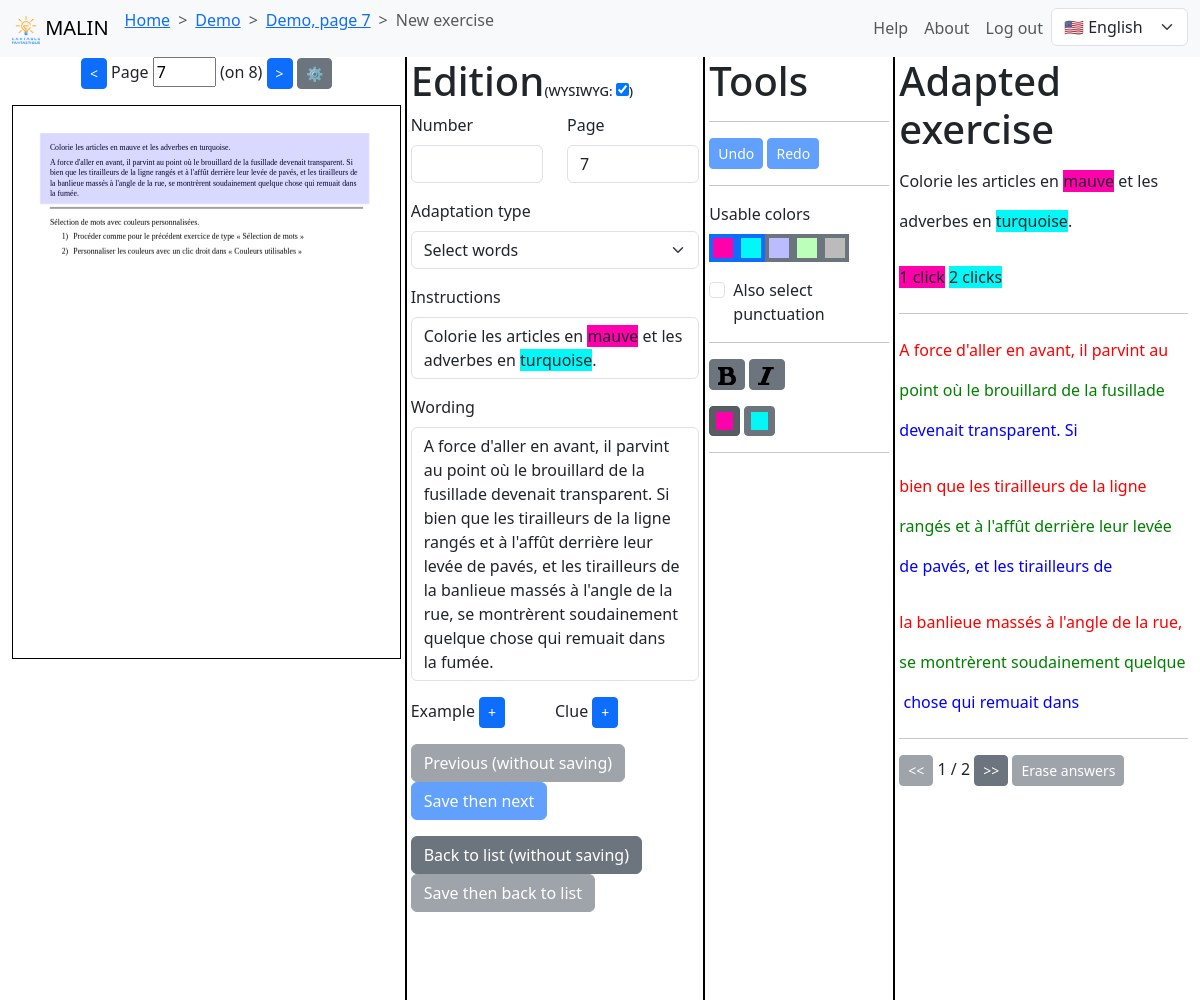
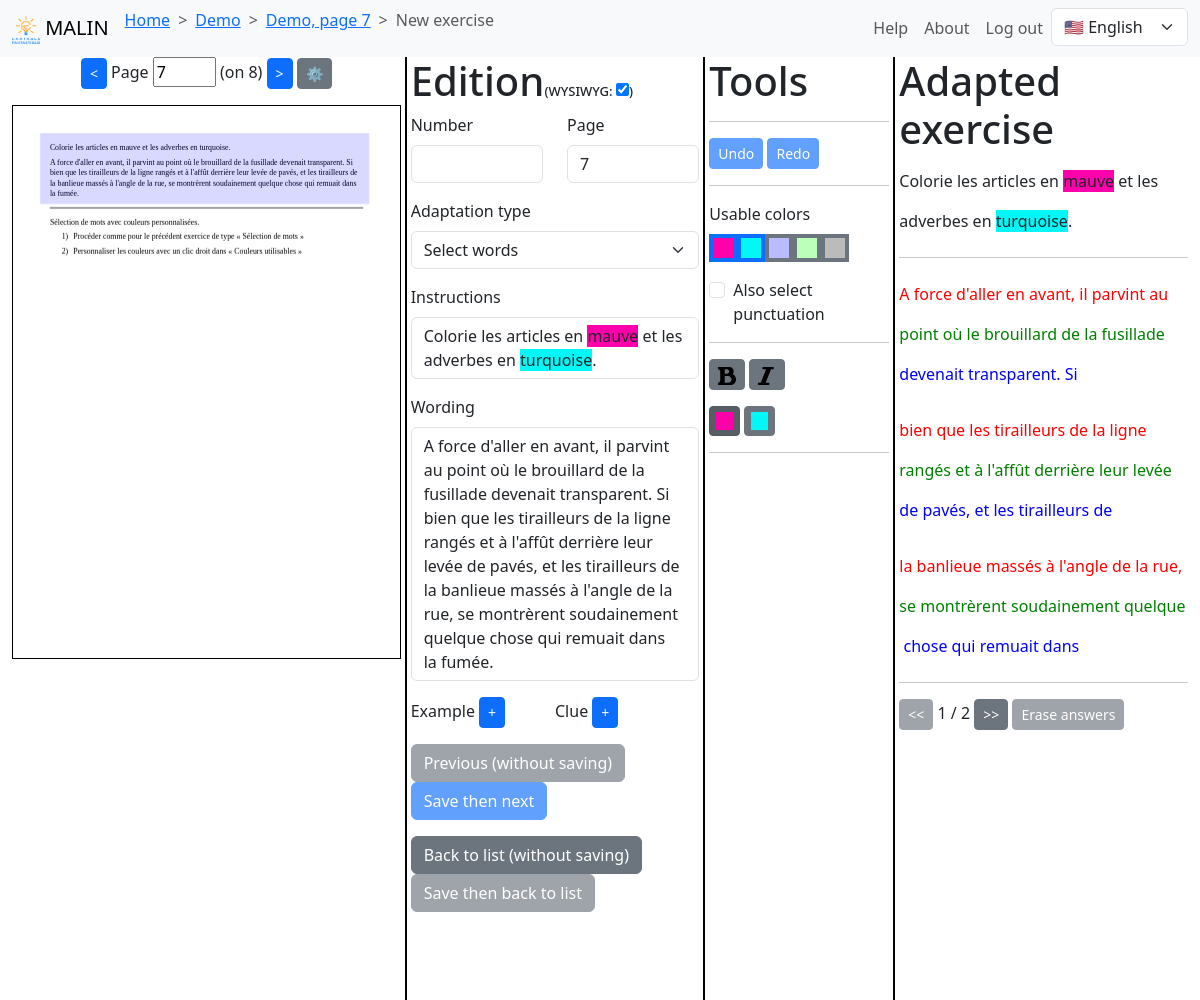
Remove "N clicks to colors" indicators in "select words" exercises

Changed region(s): [[0.74, 0.465, 0.9867, 0.806], [0.74, 0.248, 0.9867, 0.434]]

diff --git a/frontend/src/openapi.ts b/frontend/src/openapi.ts
@@ -334,7 +334,7 @@ export interface components {
     /** Sentence */
     Sentence: {
       /** Tokens */
-      tokens: (components["schemas"]["_PlainText"] | components["schemas"]["_BoxedText"] | components["schemas"]["_BoldText"] | components["schemas"]["_ItalicText"] | components["schemas"]["_SelectableText"] | components["schemas"]["_SelectedText"] | components["schemas"]["_SelectedClicks"] | components["schemas"]["_FreeTextInput"] | components["schemas"]["_MultipleChoicesInput"] | components["schemas"]["_Whitespace"])[];
+      tokens: (components["schemas"]["_PlainText"] | components["schemas"]["_BoxedText"] | components["schemas"]["_BoldText"] | components["schemas"]["_ItalicText"] | components["schemas"]["_SelectableText"] | components["schemas"]["_SelectedText"] | components["schemas"]["_FreeTextInput"] | components["schemas"]["_MultipleChoicesInput"] | components["schemas"]["_Whitespace"])[];
     };
     /** ValidationError */
     ValidationError: {
@@ -421,19 +421,6 @@ export interface components {
        * @enum {string}
        */
       type: "selectableText";
-    };
-    /** _SelectedClicks */
-    _SelectedClicks: {
-      /** Clicks */
-      clicks: number;
-      /** Color */
-      color: string;
-      /**
-       * Type
-       * @constant
-       * @enum {string}
-       */
-      type: "selectedClicks";
     };
     /** _SelectedText */
     _SelectedText: {

diff --git a/frontend/e2e-tests/textbook-exercise-edition.cy.ts b/frontend/e2e-tests/textbook-exercise-edition.cy.ts
@@ -95,7 +95,6 @@ describe('Gabby', () => {
     cy.get('span.maybe-usable-colors-container span.usable-colors-button[data-cy-colors="4"]').should('have.css', 'background-color', 'rgb(45, 75, 45)')
     cy.get('button[data-cy="format-color-4"] > span').should('have.css', 'background-color', 'rgb(45, 75, 45)')
     cy.get('span:contains("verbes")').last().should('have.css', 'background-color', 'rgb(45, 75, 45)')
-    cy.get('span:contains("4 clicks")').last().should('have.css', 'background-color', 'rgb(45, 75, 45)')
     cy.get('button:contains("OK")').click()
     cy.get('span:contains("Afrique")').last().click()
     cy.get('span:contains("Afrique")').last().click()
@@ -113,7 +112,6 @@ describe('Gabby', () => {
     cy.get('span.maybe-usable-colors-container span.usable-colors-button[data-cy-colors="4"]').should('have.css', 'background-color', 'rgb(45, 75, 45)')
     cy.get('button[data-cy="format-color-4"] > span').should('have.css', 'background-color', 'rgb(45, 75, 45)')
     cy.get('span:contains("verbes")').last().should('have.css', 'background-color', 'rgb(45, 75, 45)')
-    cy.get('span:contains("4 clicks")').last().should('have.css', 'background-color', 'rgb(45, 75, 45)')
     cy.get('span:contains("Afrique")').last().click()
     cy.get('span:contains("Afrique")').last().click()
     cy.get('span:contains("Afrique")').last().click()

diff --git a/frontend/src/adapted/components/MonocolorSection.vue b/frontend/src/adapted/components/MonocolorSection.vue
@@ -44,9 +44,6 @@ watch(models, () => emit('layoutChanged'), { deep: true })
             <template v-else-if="token.type === 'selectedText'">
               <SelectedText :color="token.color">{{ token.text }}</SelectedText>
             </template>
-            <template v-else-if="token.type === 'selectedClicks'">
-              <SelectedText :color="token.color">{{ token.clicks }} {{ $t('nClicks', token.clicks) }}</SelectedText>
-            </template>
             <template v-else-if="token.type === 'multipleChoicesInput'">
               <MultipleChoicesInput :choices="token.choices" v-model="models[modelKey]" />
             </template>

diff --git a/backend/gabby/adaptations/select_things.py b/backend/gabby/adaptations/select_things.py
@@ -53,17 +53,7 @@ class SelectThingsAdaptation(Adaptation):
         )
 
     def make_adapted_instructions(self):
-        section = self.adapt_instructions(self.exercise.instructions)
-
-        if len(self.colors) > 1:
-            tokens = []
-            for i, color in enumerate(self.colors):
-                if i != 0:
-                    tokens.append(renderable.Whitespace())
-                tokens.append(renderable.SelectedClicks(clicks=i + 1, color=color))
-            section.paragraphs.append(renderable.Paragraph(sentences=[renderable.Sentence(tokens=tokens)]))
-
-        return section
+        return self.adapt_instructions(self.exercise.instructions)
 
     class WordingAdapter(parsing.WordingSectionAdapter):
         def __init__(self, words, punctuation, colors):
@@ -149,13 +139,6 @@ class SelectThingsAdaptationTestCase(AdaptationTestCase):
                             r.PlainText(text="instructions"),
                         ]),
                     ]),
-                    r.Paragraph(sentences=[
-                        r.Sentence(tokens=[
-                            r.SelectedClicks(clicks=1, color="red"),
-                            r.Whitespace(),
-                            r.SelectedClicks(clicks=2, color="blue"),
-                        ]),
-                    ]),
                 ]),
                 wording=r.Section(paragraphs=[
                     r.Paragraph(sentences=[
@@ -226,15 +209,6 @@ class SelectThingsAdaptationTestCase(AdaptationTestCase):
                             r.PlainText(text="|"),
                             r.PlainText(text="jkl"),
                             r.PlainText(text="}"),
-                        ]),
-                    ]),
-                    r.Paragraph(sentences=[
-                        r.Sentence(tokens=[
-                            r.SelectedClicks(clicks=1, color="red"),
-                            r.Whitespace(),
-                            r.SelectedClicks(clicks=2, color="green"),
-                            r.Whitespace(),
-                            r.SelectedClicks(clicks=3, color="blue"),
                         ]),
                     ]),
                 ]),
@@ -621,15 +595,6 @@ class SelectThingsAdaptationTestCase(AdaptationTestCase):
                     r.Paragraph(sentences=[
                         r.Sentence(tokens=[
                             r.PlainText(text="instructions"),
-                        ]),
-                    ]),
-                    r.Paragraph(sentences=[
-                        r.Sentence(tokens=[
-                            r.SelectedClicks(clicks=1, color="red"),
-                            r.Whitespace(),
-                            r.SelectedClicks(clicks=2, color="green"),
-                            r.Whitespace(),
-                            r.SelectedClicks(clicks=3, color="blue"),
                         ]),
                     ]),
                 ]),

diff --git a/backend/gabby/parsed_exercises.py b/backend/gabby/parsed_exercises.py
@@ -210,13 +210,6 @@ class ParsedExerciseApiTestCase(LoggedInApiTestCase):
                     {"type": "plainText", "text": "instructions"},
                     {"type": "plainText", "text": "."},
                 ]}]},
-                {"sentences": [{"tokens": [
-                    {"type": "selectedClicks", "clicks": 1, "color": "red"},
-                    {"type": "whitespace"},
-                    {"type": "selectedClicks", "clicks": 2, "color": "green"},
-                    {"type": "whitespace"},
-                    {"type": "selectedClicks", "clicks": 3, "color": "blue"},
-                ]}]},
             ]},
             "wording": {"paragraphs": [{"sentences": [{"tokens": [
                 {"type": "selectableText", "text": "This", "colors": ["red", "green", "blue"]},
@@ -266,13 +259,6 @@ class ParsedExerciseApiTestCase(LoggedInApiTestCase):
                     {"type": "whitespace"},
                     {"type": "plainText", "text": "instructions"},
                     {"type": "plainText", "text": "."},
-                ]}]},
-                {"sentences": [{"tokens": [
-                    {"type": "selectedClicks", "clicks": 1, "color": "red"},
-                    {"type": "whitespace"},
-                    {"type": "selectedClicks", "clicks": 2, "color": "green"},
-                    {"type": "whitespace"},
-                    {"type": "selectedClicks", "clicks": 3, "color": "blue"},
                 ]}]},
             ]},
             "wording": {"paragraphs": [{"sentences": [{"tokens": [

diff --git a/backend/gabby/parsing.py b/backend/gabby/parsing.py
@@ -587,16 +587,11 @@ class GenericInstructionsSectionAdapter(InstructionsSectionAdapter):
         text, color = args
         return renderable.SelectedText(text=text, color=color)
 
-    def selected_clicks_tag(self, args):
-        clicks, color = args
-        return renderable.SelectedClicks(clicks=clicks, color=color)
-
 
 adapt_generic_instructions_section = InstructionsSectionParser(
     {
         "boxed_text": r""" "|" STR """,
         "selected_text": r""" "|" STR "|" STR """,
-        "selected_clicks": r""" "|" INT "|" STR """,
     },
     GenericInstructionsSectionAdapter(),
 )
@@ -791,17 +786,6 @@ class AdaptGenericInstructionsSectionTestCase(TestCase):
                 renderable.PlainText(text="is"),
                 renderable.Whitespace(),
                 renderable.SelectedText(text="selected", color="red"),
-                renderable.PlainText(text="."),
-            ])])]),
-        )
-
-    def test_selected_clicks_tag(self):
-        self.do_test(
-            "A {selected-clicks|2|green}.",
-            renderable.Section(paragraphs=[renderable.Paragraph(sentences=[renderable.Sentence(tokens=[
-                renderable.PlainText(text="A"),
-                renderable.Whitespace(),
-                renderable.SelectedClicks(clicks=2, color="green"),
                 renderable.PlainText(text="."),
             ])])]),
         )

diff --git a/backend/gabby/renderable.py b/backend/gabby/renderable.py
@@ -78,18 +78,6 @@ def SelectedText(text: str, color: str):
     return _SelectedText(type="selectedText", text=text, color=color)
 
 
-class _SelectedClicks(PydanticBase):
-    type: Literal["selectedClicks"]
-    clicks: int
-    color: str
-
-    def to_generic(self):
-        return f"{{selected-clicks|{self.clicks}|{self.color}}}"
-
-def SelectedClicks(clicks: int, color: str):
-    return _SelectedClicks(type="selectedClicks", clicks=clicks, color=color)
-
-
 class _FreeTextInput(PydanticBase):
     type: Literal["freeTextInput"]
 
@@ -121,7 +109,7 @@ def Whitespace():
     return _Whitespace(type="whitespace")
 
 
-SentenceToken = _PlainText | _BoxedText | _BoldText | _ItalicText | _SelectableText | _SelectedText | _SelectedClicks | _FreeTextInput | _MultipleChoicesInput | _Whitespace
+SentenceToken = _PlainText | _BoxedText | _BoldText | _ItalicText | _SelectableText | _SelectedText | _FreeTextInput | _MultipleChoicesInput | _Whitespace
 
 
 class Sentence(PydanticBase):
